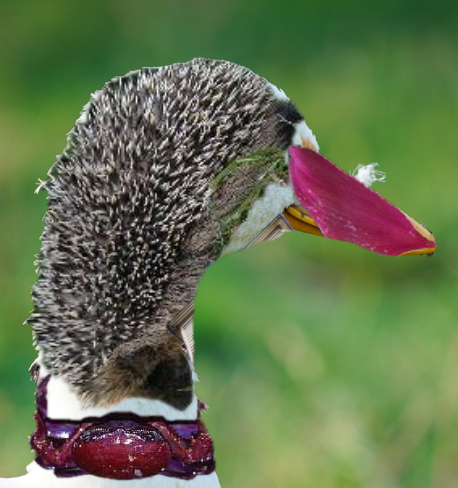
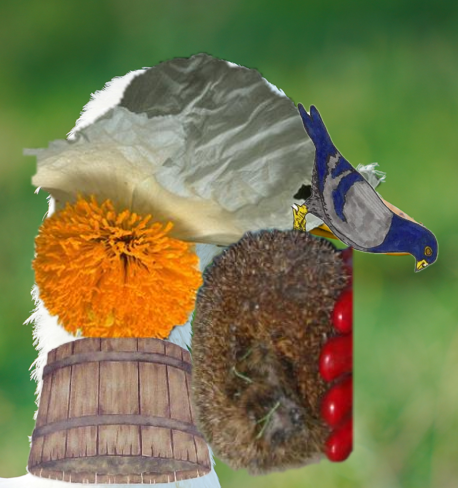
Stop clipping placed objects to the canvas silhouette
Every paste was masked by the subject's own outline, which turned the base
image into a stencil: objects arrived pre-trimmed to the shape underneath and
the result was too clean. The overhang where an object runs past the edge it
was matched to is the interesting part, so objects are now composited whole.

Containment is still a scoring term, so placements are steered onto the subject
without being cut to it. The failure this originally guarded against -- a large
late object burying everything -- is already covered by the minimum-score floor
and the hard overlap gate against previously placed objects.

Removes --no-clip, which existed only to switch this off, and the clip_mask
parameter on composite(), which nothing else used.

Claude-Session: https://claude.ai/code/session_013R8VdeUMpZdjrCEY2TJnYo

diff --git a/compose_animal.py b/compose_animal.py
@@ -83,7 +83,7 @@ def is_cardinal(transform):
     return rot[3:] in ("", "0", "90", "180", "270")
 
 
-def place_object(canvas, obj, result, blend_mode, alpha, clip_mask=None):
+def place_object(canvas, obj, result, blend_mode, alpha):
     """Composite the winning object onto the canvas at full resolution.
 
     The match ran on a downscaled, bbox-cropped copy, so the same crop and the
@@ -121,13 +121,12 @@ def place_object(canvas, obj, result, blend_mode, alpha, clip_mask=None):
 
     return composite(img, canvas, result["x"], result["y"], result["scale"],
                      blend_mode, alpha, patch_mask=alpha_mask,
-                     return_placed_mask=True, clip_mask=clip_mask)
+                     return_placed_mask=True)
 
 
 def compose(animal_path, objects, config, rounds=4, blend_mode="alpha",
             alpha=1.0, output_dir="output", save_steps=True, threads=4,
-            clip_to_animal=True, allow_repeat_class=False,
-            variant_cache=None, name=None):
+            allow_repeat_class=False, variant_cache=None, name=None):
     """Layer `rounds` objects onto the animal, best fit first."""
     animal_bgr = cv2.imread(animal_path, cv2.IMREAD_COLOR)
     if animal_bgr is None:
@@ -144,22 +143,19 @@ def compose(animal_path, objects, config, rounds=4, blend_mode="alpha",
     animal_mask = segment.foreground_mask(proc)
     # Keep the single largest blob.  subject_outline already traces only the
     # largest contour, so leaving every component in the subject mask made the
-    # two disagree: objects were scored against one animal and then clipped to
-    # a mask that also held background clutter, leaving slivers behind.
+    # containment term score against a different shape than the one the edges
+    # were matched to, which on a cluttered photo credits an object for
+    # covering background rather than subject.
     animal_subject = segment.largest_component(segment.clean_mask(animal_mask))
     animal_outline = segment.subject_outline(proc)
 
     describe_silhouette(animal_mask, animal_subject)
 
-    # Full-resolution copy of the same silhouette.  Clipping every paste to it
-    # is what stops an object from spilling across the background and burying
-    # the animal -- the failure mode where a well-scored watch simply covers
-    # the whole head.  The animal's outline survives no matter what lands on it.
-    animal_subject_full = cv2.resize(animal_subject,
-                                     (canvas.shape[1], canvas.shape[0]),
-                                     interpolation=cv2.INTER_NEAREST)
-    if clip_to_animal:
-        animal_subject_full = cv2.GaussianBlur(animal_subject_full, (5, 5), 0)
+    # Objects are deliberately not clipped to the subject's silhouette.  Cutting
+    # every paste to the outline underneath makes the canvas act as a stencil,
+    # and the result is too tidy: the overhang where an object runs past the
+    # edge it was matched to is the point.  Containment still steers placements
+    # onto the subject as a scoring term, it just no longer enforces them.
 
     occupied_full = np.zeros(canvas.shape[:2], np.uint8)
     history = [canvas.copy()]
@@ -251,9 +247,7 @@ def compose(animal_path, objects, config, rounds=4, blend_mode="alpha",
         result["y"] = int(round(result["y"] / img_scale))
         result["scale"] = result["match_scale"] * (obj["img_scale"] / img_scale)
 
-        canvas, placed_mask = place_object(
-            canvas, obj, result, blend_mode, alpha,
-            clip_mask=animal_subject_full if clip_to_animal else None)
+        canvas, placed_mask = place_object(canvas, obj, result, blend_mode, alpha)
         occupied_full = np.maximum(occupied_full, placed_mask)
         history.append(canvas.copy())
         placed.append({
@@ -344,8 +338,6 @@ def parse_args(argv):
                         "itself in already-placed objects")
     p.add_argument("--allow-repeat-class", action="store_true",
                    help="let the same object category win more than once")
-    p.add_argument("--no-clip", action="store_true",
-                   help="let objects spill outside the animal's silhouette")
     p.add_argument("--threads", type=int, default=os.cpu_count() or 4)
     p.add_argument("--seed", type=int, default=0)
     p.add_argument("--per-class-cap", type=int, default=3,
@@ -406,8 +398,7 @@ def main(argv=None):
     canvas, history, placed = compose(
         args.animal, objects, config, rounds=args.rounds,
         blend_mode=args.blend, alpha=args.alpha, output_dir=args.output_dir,
-        threads=args.threads, clip_to_animal=not args.no_clip,
-        allow_repeat_class=args.allow_repeat_class,
+        threads=args.threads, allow_repeat_class=args.allow_repeat_class,
     )
 
     animal_name = os.path.splitext(os.path.basename(args.animal))[0]

diff --git a/composer/compositing.py b/composer/compositing.py
@@ -27,14 +27,11 @@ def _blend_region(target_region, patch_region, mask_region, blend_mode, alpha):
 
 
 def composite(patch, target, x, y, scale, blend_mode="soft", alpha=0.9,
-              patch_mask=None, return_placed_mask=False, clip_mask=None):
+              patch_mask=None, return_placed_mask=False):
     """Paste `patch` onto a copy of `target` at (x, y), scaled by `scale`.
 
     `patch_mask` is a float32 alpha in [0, 1]; without one the patch's
     non-black pixels are used, which is only right for pre-cut images.
-
-    `clip_mask` is a target-sized uint8 stencil the paste is confined to, used
-    to keep objects inside the animal's silhouette.
     """
     result = target.copy()
     ph, pw = patch.shape[:2]
@@ -63,11 +60,6 @@ def composite(patch, target, x, y, scale, blend_mode="soft", alpha=0.9,
 
     patch_region = patch_scaled[py1:py2, px1:px2]
     mask_region = np.clip(validity[py1:py2, px1:px2], 0.0, 1.0)
-
-    if clip_mask is not None:
-        stencil = clip_mask[y1:y2, x1:x2].astype(np.float32) / 255.0
-        mask_region = mask_region * stencil
-
     result[y1:y2, x1:x2] = _blend_region(result[y1:y2, x1:x2], patch_region,
                                          mask_region, blend_mode, alpha)
 

diff --git a/README.md b/README.md
@@ -2,12 +2,12 @@
 
 Build an animal out of photographs of other objects.
 
-![A duck composed of a hedgehog, a flower, a crab and a church](examples/duck3_strip.png)
+![A duck composed of a flower, a barrel, a pigeon and a hedgehog](examples/duck3_strip.png)
 
 The photo is the canvas. Each round, every object in a pool is scored against
-the canvas's contours and the best-fitting one is composited on top, clipped to
-the subject's silhouette. After four rounds the duck above is a hedgehog, a
-flower petal, a crab and a church — and still reads as a duck.
+the canvas's contours and the best-fitting one is composited on top — whole, not
+cut to the outline underneath. Objects run past the edge they were matched to,
+and that overhang is the point: the subject still reads, but the seams show.
 
 It does not have to be an animal. A revolver built from a tree sparrow, a
 guitar whose body is a stop sign, a Windsor chair striped out of a bulldog:
@@ -38,7 +38,6 @@ Useful flags:
 | `--min-body-frac F` | each object must cover this much of the animal (keeps objects legible) |
 | `--max-overlap F` | reject a placement that buries this much of itself in earlier objects |
 | `--min-score F` | stop early rather than paste something that does not fit |
-| `--no-clip` | let objects spill outside the animal's silhouette |
 | `--rank-top-k N` | objects promoted from coarse ranking to full-resolution matching |
 
 ## Many images at once
